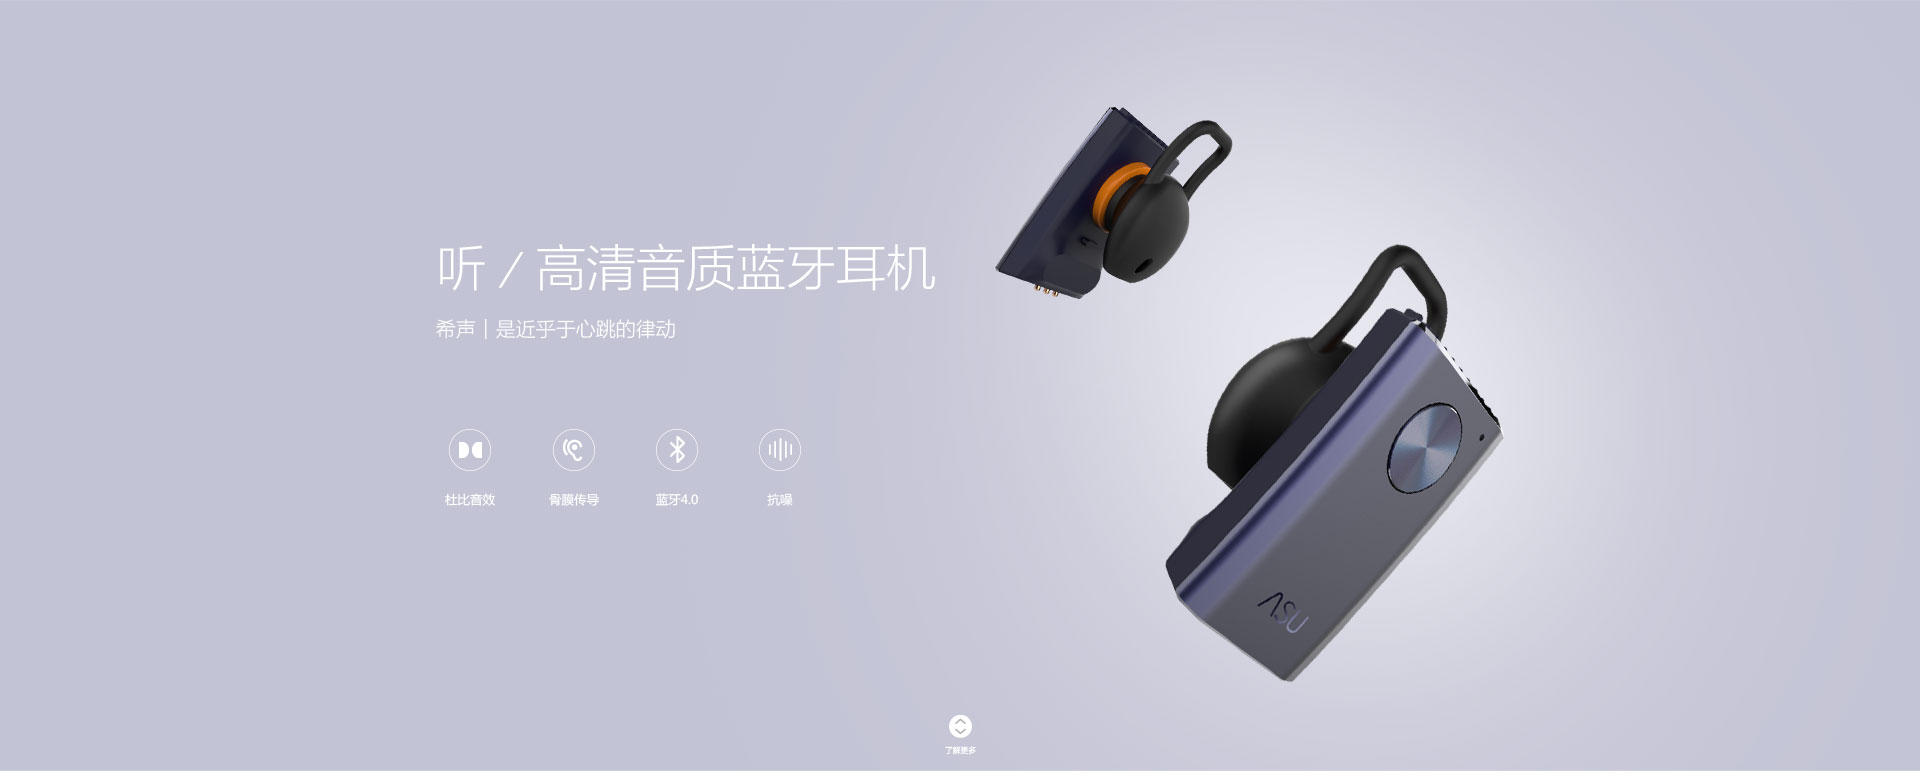
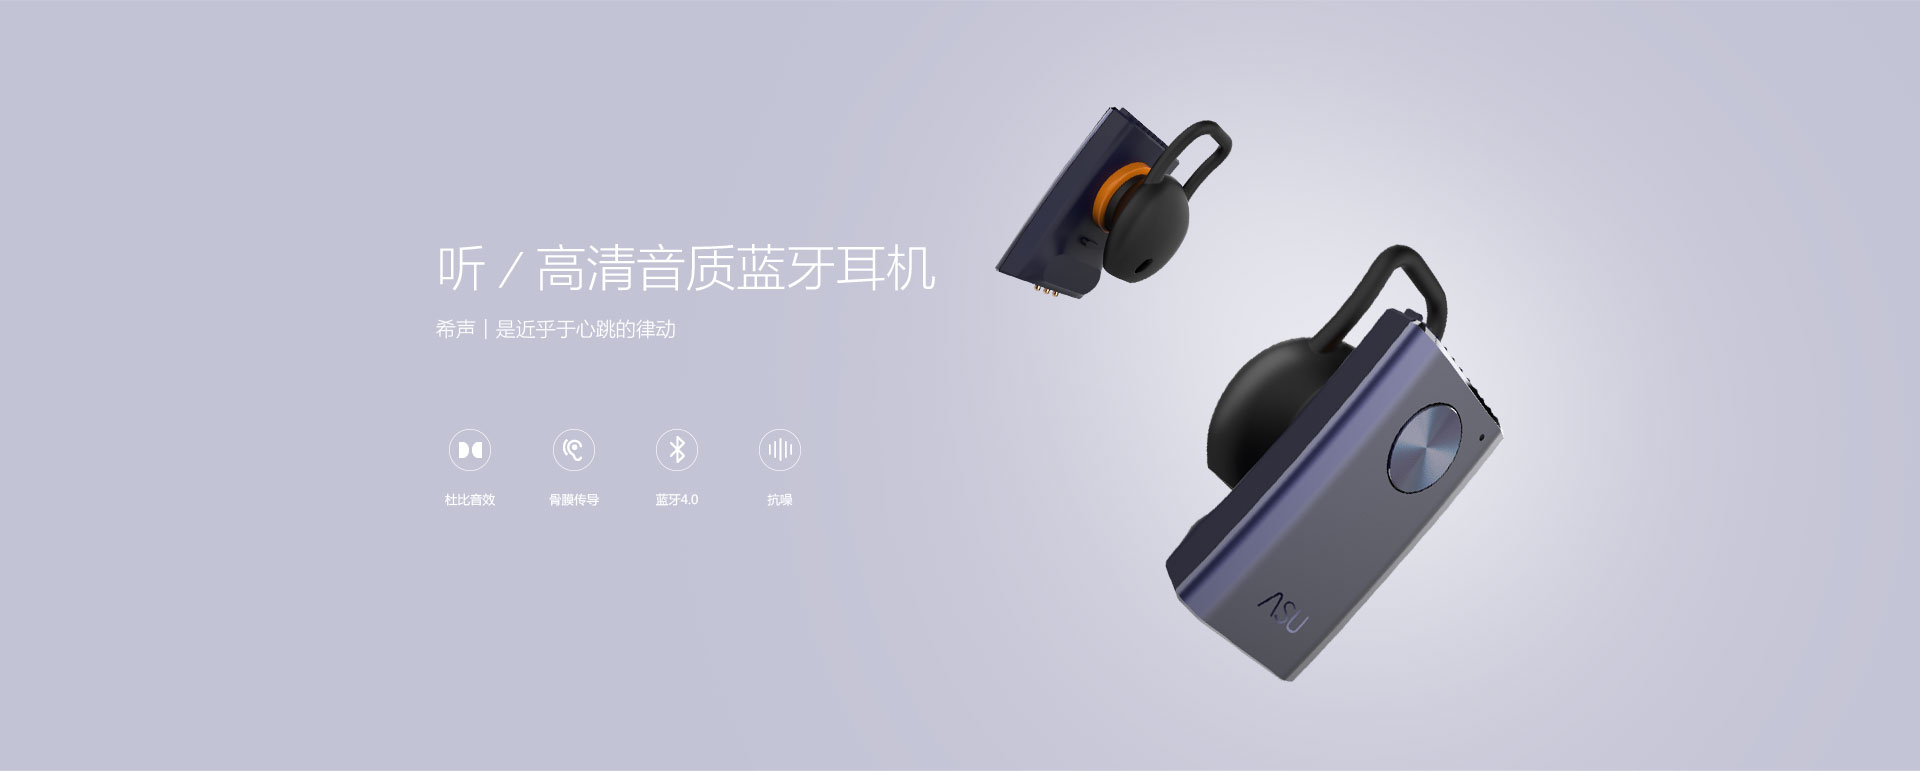
图

diff --git a/static/css/cast2.css b/static/css/cast2.css
@@ -199,14 +199,14 @@
 }
 .roll-tip td, .roll-tip-holder{
     text-align: center;
-    margin-bottom: 40px;
+    margin-bottom: 30px;
 }
 .roll-tip .fa{  
     color:#d6d6d6;
     margin-top: 5px;
 }
 .roll-tip a{ 
-    line-height: 40px;
+    line-height: 30px;
     color: white;
 }
 
